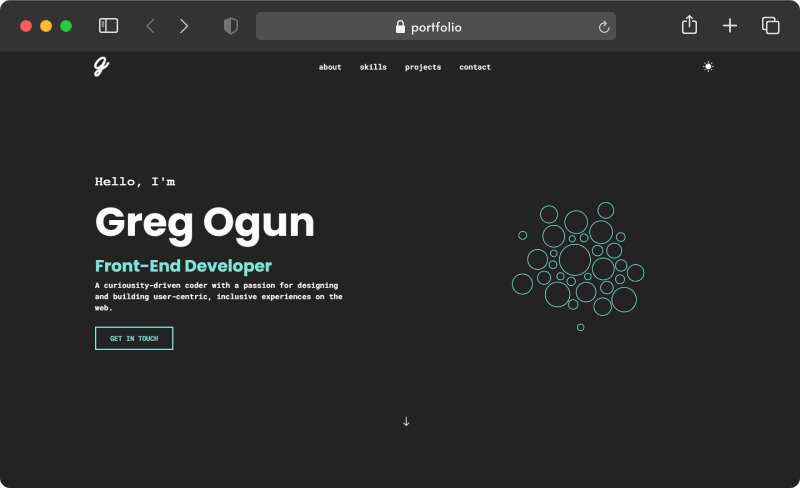
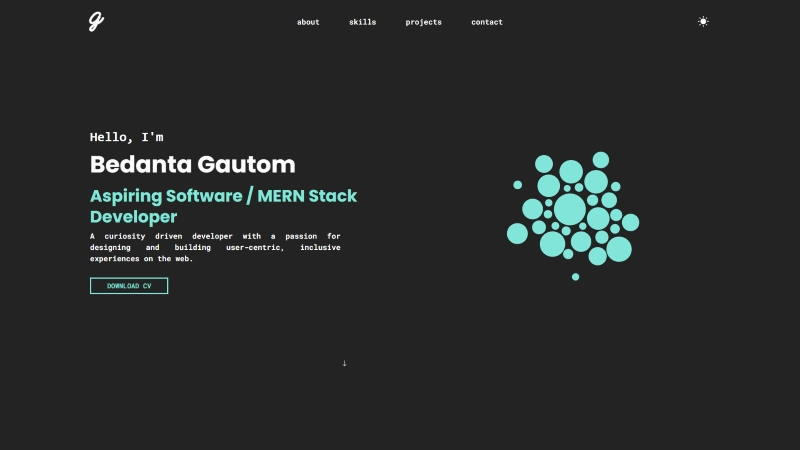
Updates files

diff --git a/src/content/projects/index.js b/src/content/projects/index.js
@@ -1,5 +1,5 @@
 import React from "react";
-import { GitjobsImg, PortfolioImg } from "../../assets/images";
+import { FashionifyImg, PortfolioImg, FtpServerImg } from "../../assets/images";
 
 const projects = [
   {
@@ -8,25 +8,36 @@ const projects = [
       "Built with React using parcel bundler for it's no-config approach.",
       "Using Chakra UI to build the UI.",
       "Using storybook for visual testing and building reusable components.",
-      "Going forward, I'm hoping to integrate Gatsby for it's SEO, MDX & SSG features.",
+      "Going forward, I'm hoping to integrate Next.js and Github API into this website.",
     ],
     media: <PortfolioImg />,
     live: null,
-    // need to update to current site url once site goes public
-    repo: null,
+    repo: "https://github.com/BedantaGautom/Portfolio-Website",
     id: 1,
   },
   {
-    name: "gitjobs",
+    name: "Fashionify",
     info: [
-      "Search for jobs available on the Github Jobs site, with reimagined, fully responsive design and functionality.",
-      "You can search by job title/keyword, location or full time positions.",
-      "Supports light/dark mode.",
+      "Fashion Blog website using HTML, CSS, and Javascript with Azure Health Bot feature.",
+      "Search or post any services related to fashion lifestyle.",
+      "Deployed using Github pages and Azure Web Apps.",
     ],
-    media: <GitjobsImg />,
-    live: "https://go-gitjobs.netlify.app",
-    repo: "https://github.com/gregogun/github-jobs-api",
+    media: <FashionifyImg />,
+    live: "https://bedantagautom.github.io/Fashionify",
+    repo: "https://github.com/BedantaGautom/Fashionify",
     id: 2,
+  },
+  {
+    name: "FTP Server",
+    info: [
+      "Web Application to upload and download files.",
+      "Uses File Transfer Protocol to transfer files from client to server and vice versa.",
+      "Deployed using Node.js, Express.js and Multer.",
+    ],
+    media: <FtpServerImg />,
+    live: "https://web-app-pxu7.onrender.com",
+    repo: "https://github.com/BedantaGautom/FTP-Server",
+    id: 3,
   },
 ];
 

diff --git a/src/assets/images/index.js b/src/assets/images/index.js
@@ -2,7 +2,8 @@ import { Image, useColorMode } from "@chakra-ui/react";
 import React from "react";
 import profile from "./me.jpg";
 import portfolio from "./portfolio";
-import gitjobs from "./gitjobs";
+import fashionify from "./fashionify";
+import ftpserver from "./ftpserver";
 
 export const ImageProfile = () => {
   return (
@@ -19,7 +20,7 @@ export const ImageProfile = () => {
       }}
       src={profile}
       fallbackSrc="https://via.placeholder.com/500"
-      alt="Greg Ogun"
+      alt="Bedanta Gautom"
     />
   );
 };
@@ -45,7 +46,7 @@ export const PortfolioImg = () => {
   );
 };
 
-export const GitjobsImg = () => {
+export const FashionifyImg = () => {
   const { colorMode } = useColorMode();
   return (
     <Image
@@ -54,14 +55,35 @@ export const GitjobsImg = () => {
       objectFit="cover"
       boxSize="100%"
       boxShadow={{ base: "0 0 0 2px", md: "0 0 0 4px" }}
-      src={gitjobs.light[2]}
+      src={fashionify.light[2]}
       srcSet={`${
-        colorMode === "light" ? gitjobs.light[0] : gitjobs.dark[0]
+        colorMode === "light" ? fashionify.light[0] : fashionify.dark[0]
       } 400w, ${
-        colorMode === "light" ? gitjobs.light[1] : gitjobs.dark[1]
+        colorMode === "light" ? fashionify.light[1] : fashionify.dark[1]
       } 800w`}
       fallbackSrc="https://via.placeholder.com/500"
-      alt="Gitjobs project"
+      alt="Fashionify project"
+    />
+  );
+};
+
+export const FtpServerImg = () => {
+  const { colorMode } = useColorMode();
+  return (
+    <Image
+      rounded="8px"
+      mx={{ base: "auto", xxl: 0 }}
+      objectFit="cover"
+      boxSize="100%"
+      boxShadow={{ base: "0 0 0 2px", md: "0 0 0 4px" }}
+      src={ftpserver.light[2]}
+      srcSet={`${
+        colorMode === "light" ? ftpserver.light[0] : ftpserver.dark[0]
+      } 400w, ${
+        colorMode === "light" ? ftpserver.light[1] : ftpserver.dark[1]
+      } 800w`}
+      fallbackSrc="https://via.placeholder.com/500"
+      alt="Ftp server project"
     />
   );
 };

diff --git a/src/utils/hooks/useGithubApi.js b/src/utils/hooks/useGithubApi.js
@@ -1,0 +1,49 @@
+import React, { useState, useEffect } from 'react';
+
+function useStarredRepositories() {
+    const [starredRepos, setStarredRepos] = useState([]);
+    const [loading, setLoading] = useState(true);
+  
+    useEffect(() => {
+      fetch(`${process.env.PUBLIC_URL}/api/starred-repositories`)
+        .then((response) => {
+          if (!response.ok) {
+            throw new Error('Network response was not ok');
+          }
+          return response.json();
+        })
+        .then((data) => {
+          // Additional info you want to fetch (e.g., description, labels)
+          const repositoryInfoPromises = data.map((repo) => {
+            return fetch(repo.url)
+              .then((response) => {
+                if (!response.ok) {
+                  throw new Error('Network response was not ok');
+                }
+                return response.json();
+              });
+          });
+  
+          // Fetch additional info for each repository in parallel
+          Promise.all(repositoryInfoPromises)
+            .then((repositoryInfo) => {
+              const starredReposWithInfo = data.map((repo, index) => ({
+                name: repo.name,
+                html_url: repo.html_url,
+                description: repositoryInfo[index].description,
+                labels: repositoryInfo[index].labels,
+              }));
+              setStarredRepos(starredReposWithInfo);
+              setLoading(false);
+            });
+        })
+        .catch((error) => {
+          console.error('Error fetching starred repositories:', error);
+          setLoading(false);
+        });
+    }, []);
+  
+    return { starredRepos, loading };
+  }
+  
+  export default useStarredRepositories;

diff --git a/src/pages/homepage/main/about/index.js b/src/pages/homepage/main/about/index.js
@@ -57,8 +57,8 @@ collaborate in a team setting. Committed to utilizing my skills to further the m
               <Bullet as="li">Building this!</Bullet>
               <Bullet as="li">Getting deeper into MERN Stack Devloppment</Bullet>
               <Bullet as="li">Implementing Next.Js into this website!</Bullet>
-              <Bullet as="li">
-                Live Coding on{" "}
+              <Bullet as="li">Automate the Portfolio section with Github API.
+                {/* Live Coding on{" "} */}
                 {/* <Link
                   color={secondary}
                   textDecor="underline"
@@ -67,16 +67,6 @@ collaborate in a team setting. Committed to utilizing my skills to further the m
                   Twitch
                 </Link> */}
               </Bullet>
-              {/* <Bullet as="li">
-                Starting the{" "}
-                <Link
-                  color={secondary}
-                  textDecor="underline"
-                  href="https://chingu.io/"
-                >
-                  Chingu Voyage 28
-                </Link>
-              </Bullet> */}
             </Stack>
           </Box>
         </Stack>

diff --git a/src/components/card/index.js b/src/components/card/index.js
@@ -1,8 +1,6 @@
 import React from "react";
 import {
   Box,
-  Container,
-  Divider,
   Flex,
   Icon,
   Stack,
@@ -12,8 +10,6 @@ import {
 import useColorSwitcher from "../../utils/hooks/useColorSwitcher";
 import { PrimaryButton, SecondaryButton } from "../button";
 import { Body, Bullet, Heading3 } from "../typography";
-import { BiRightArrow } from "react-icons/bi";
-import SpherePulse from "../../assets/motion/SpherePulse";
 
 export const SkillCard = ({ icon, name = "Insert Name", ...props }) => {
   const { colorMode } = useColorMode();
@@ -95,12 +91,12 @@ export const ProjectInfoCard = ({
           direction={{ base: "column", md: "row" }}
         >
           {live !== null && (
-            <PrimaryButton w="100%" as="a" href={live}>
+            <PrimaryButton w="100%" as="a" href={live} target="_blank">
               LIVE SITE
             </PrimaryButton>
           )}
           {repo !== null && (
-            <SecondaryButton w="100%" as="a" href={repo}>
+            <SecondaryButton w="100%" as="a" href={repo} target="_blank">
               GITHUB REPO
             </SecondaryButton>
           )}

diff --git a/api/server.js b/api/server.js
@@ -1,0 +1,32 @@
+const express = require('express');
+const axios = require('axios');
+
+const app = express();
+const PORT = process.env.PORT || 5000;
+
+// Your GitHub Personal Access Token
+const accessToken = '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';
+
+// Endpoint to fetch starred repositories
+app.get('/api/starred-repositories', async (req, res) => {
+  try {
+    // GitHub API URL for fetching starred repositories
+    const apiUrl = 'https://api.github.com/user/starred';
+
+    // Axios GET request to fetch starred repositories using the token
+    const response = await axios.get(apiUrl, {
+      headers: {
+        Authorization: `token ${accessToken}`,
+      },
+    });
+
+    res.json(response.data);
+  } catch (error) {
+    console.error('Error fetching starred repositories:', error);
+    res.status(500).json({ error: 'An error occurred while fetching repositories' });
+  }
+});
+
+app.listen(PORT, () => {
+  console.log(`Server is running on port ${PORT}`);
+});

diff --git a/src/pages/homepage/main/contact/index.js b/src/pages/homepage/main/contact/index.js
@@ -4,7 +4,6 @@ import { Line, SectionHeader } from "../../../../components/layout";
 import { PrimaryButton } from "../../../../components/button";
 import { Body, Heading2, TextLarge } from "../../../../components/typography";
 import useColorSwitcher from "../../../../utils/hooks/useColorSwitcher";
-import { FiMail } from "react-icons/fi";
 
 const Contact = forwardRef(({ ...props }, ref) => {
   const { secondary } = useColorSwitcher();
@@ -40,8 +39,8 @@ const Contact = forwardRef(({ ...props }, ref) => {
 const ContactButton = ({ secondary }) => {
   const [icon, setIcon] = useState(false);
   return (
-    <PrimaryButton as="a" href="mailto:bedantagautom2001@gmail.com" theme={secondary}>
-      GET IN TOUCH
+    <PrimaryButton  theme={secondary}>
+      <a href="mailto:bedantagautom2001@gmail.com?Subject=Hello" target="_blank">GET IN TOUCH</a>
     </PrimaryButton>
   );
 };

diff --git a/src/assets/images/fashionify/index.js b/src/assets/images/fashionify/index.js
@@ -1,0 +1,13 @@
+import lgL from "./light/fashionify_light@lg.jpg";
+import mdL from "./light/fashionify_light@md.jpg";
+import smL from "./light/fashionify_light@sm.jpg";
+import lgD from "./dark/fashionify_dark@lg.jpg";
+import mdD from "./dark/fashionify_dark@md.jpg";
+import smD from "./dark/fashionify_dark@sm.jpg";
+
+const fashionify = {
+  light: [lgL, mdL, smL],
+  dark: [lgD, mdD, smD],
+};
+
+export default fashionify;

diff --git a/src/assets/images/ftpserver/index.js b/src/assets/images/ftpserver/index.js
@@ -1,0 +1,13 @@
+import lgL from "./light/ftpserver_light@lg.jpg";
+import mdL from "./light/ftpserver_light@md.jpg";
+import smL from "./light/ftpserver_light@sm.jpg";
+import lgD from "./dark/ftpserver_dark@lg.jpg";
+import mdD from "./dark/ftpserver_dark@md.jpg";
+import smD from "./dark/ftpserver_dark@sm.jpg";
+
+const ftpserver = {
+  light: [lgL, mdL, smL],
+  dark: [lgD, mdD, smD],
+};
+
+export default ftpserver;

diff --git a/src/pages/homepage/main/projects/index.js b/src/pages/homepage/main/projects/index.js
@@ -48,7 +48,7 @@ const Projects = forwardRef(({ ...props }, ref) => {
           direction={{ base: "column", xxl: "row" }}
           mb="128px"
         >
-          <ProjectCard media={project.media} />
+           <ProjectCard media={project.media} />
           <ProjectInfoCard length={project.length} {...project} />
         </Stack>
       ))}

diff --git a/src/utils/index.js b/src/utils/index.js
@@ -1,1 +1,2 @@
 export { default as useColorSwitcher } from "./hooks/useColorSwitcher";
+// export {default as useStarredRepositories} from "./hooks/useGithubApi";
